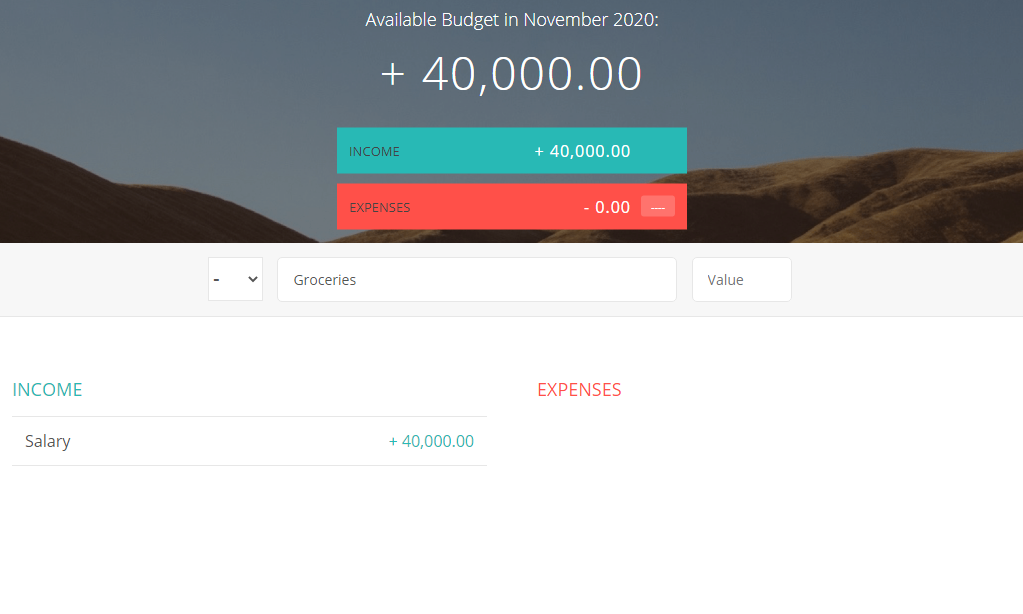
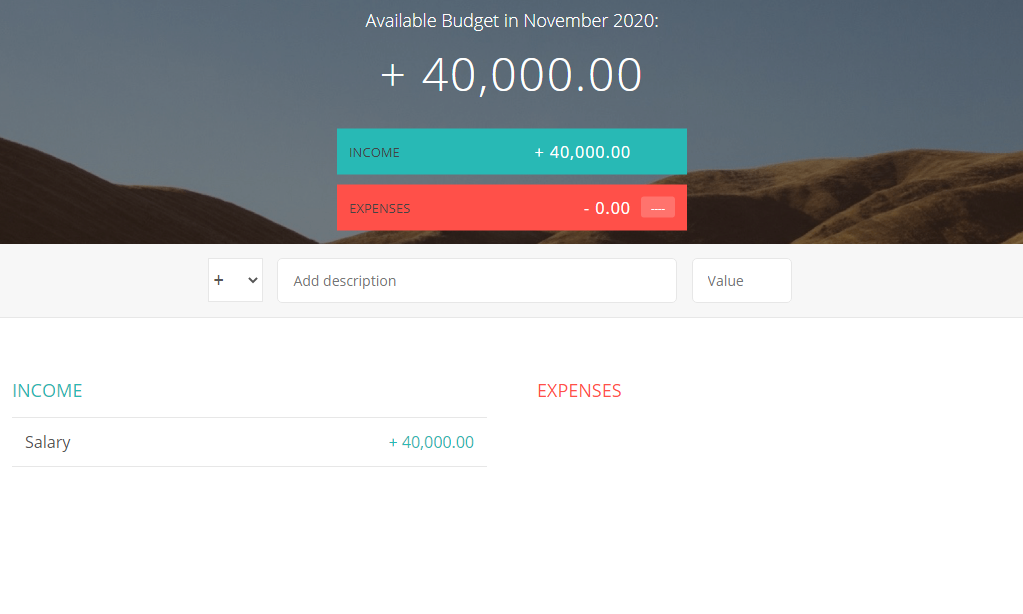
port 3 added an image

diff --git a/portfolio-3.html b/portfolio-3.html
@@ -26,6 +26,9 @@
                     <div class="item">
                         <img src="img/budget 3.PNG" alt="" />
                     </div>
+                    <div class="item">
+                        <img src="img/budget 4.PNG" alt="" />
+                    </div>
                 </div>
 
                 <!--<div class="portfolio-page-video embed-responsive embed-responsive-16by9">
